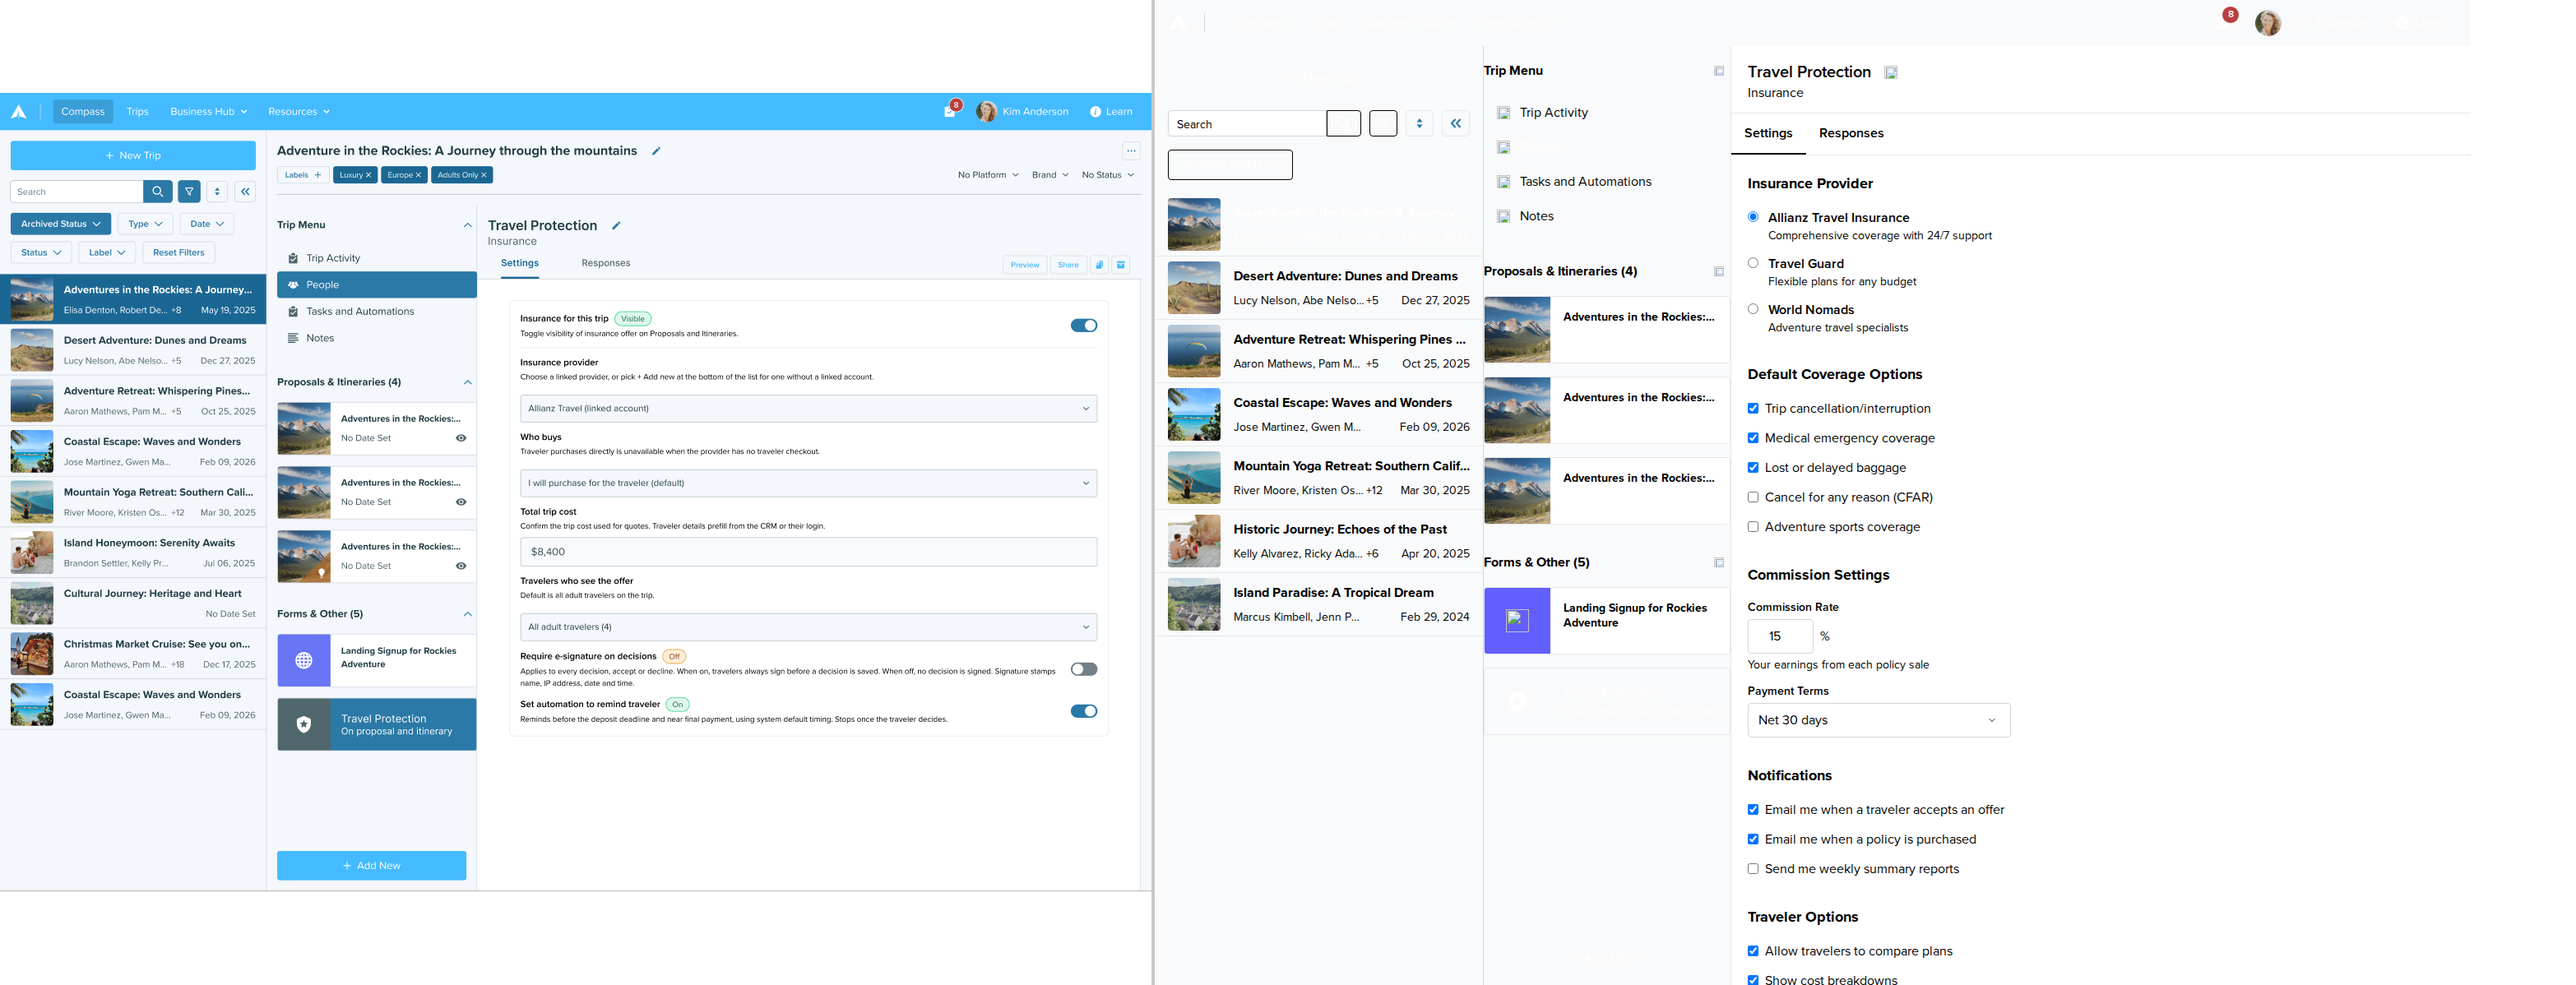
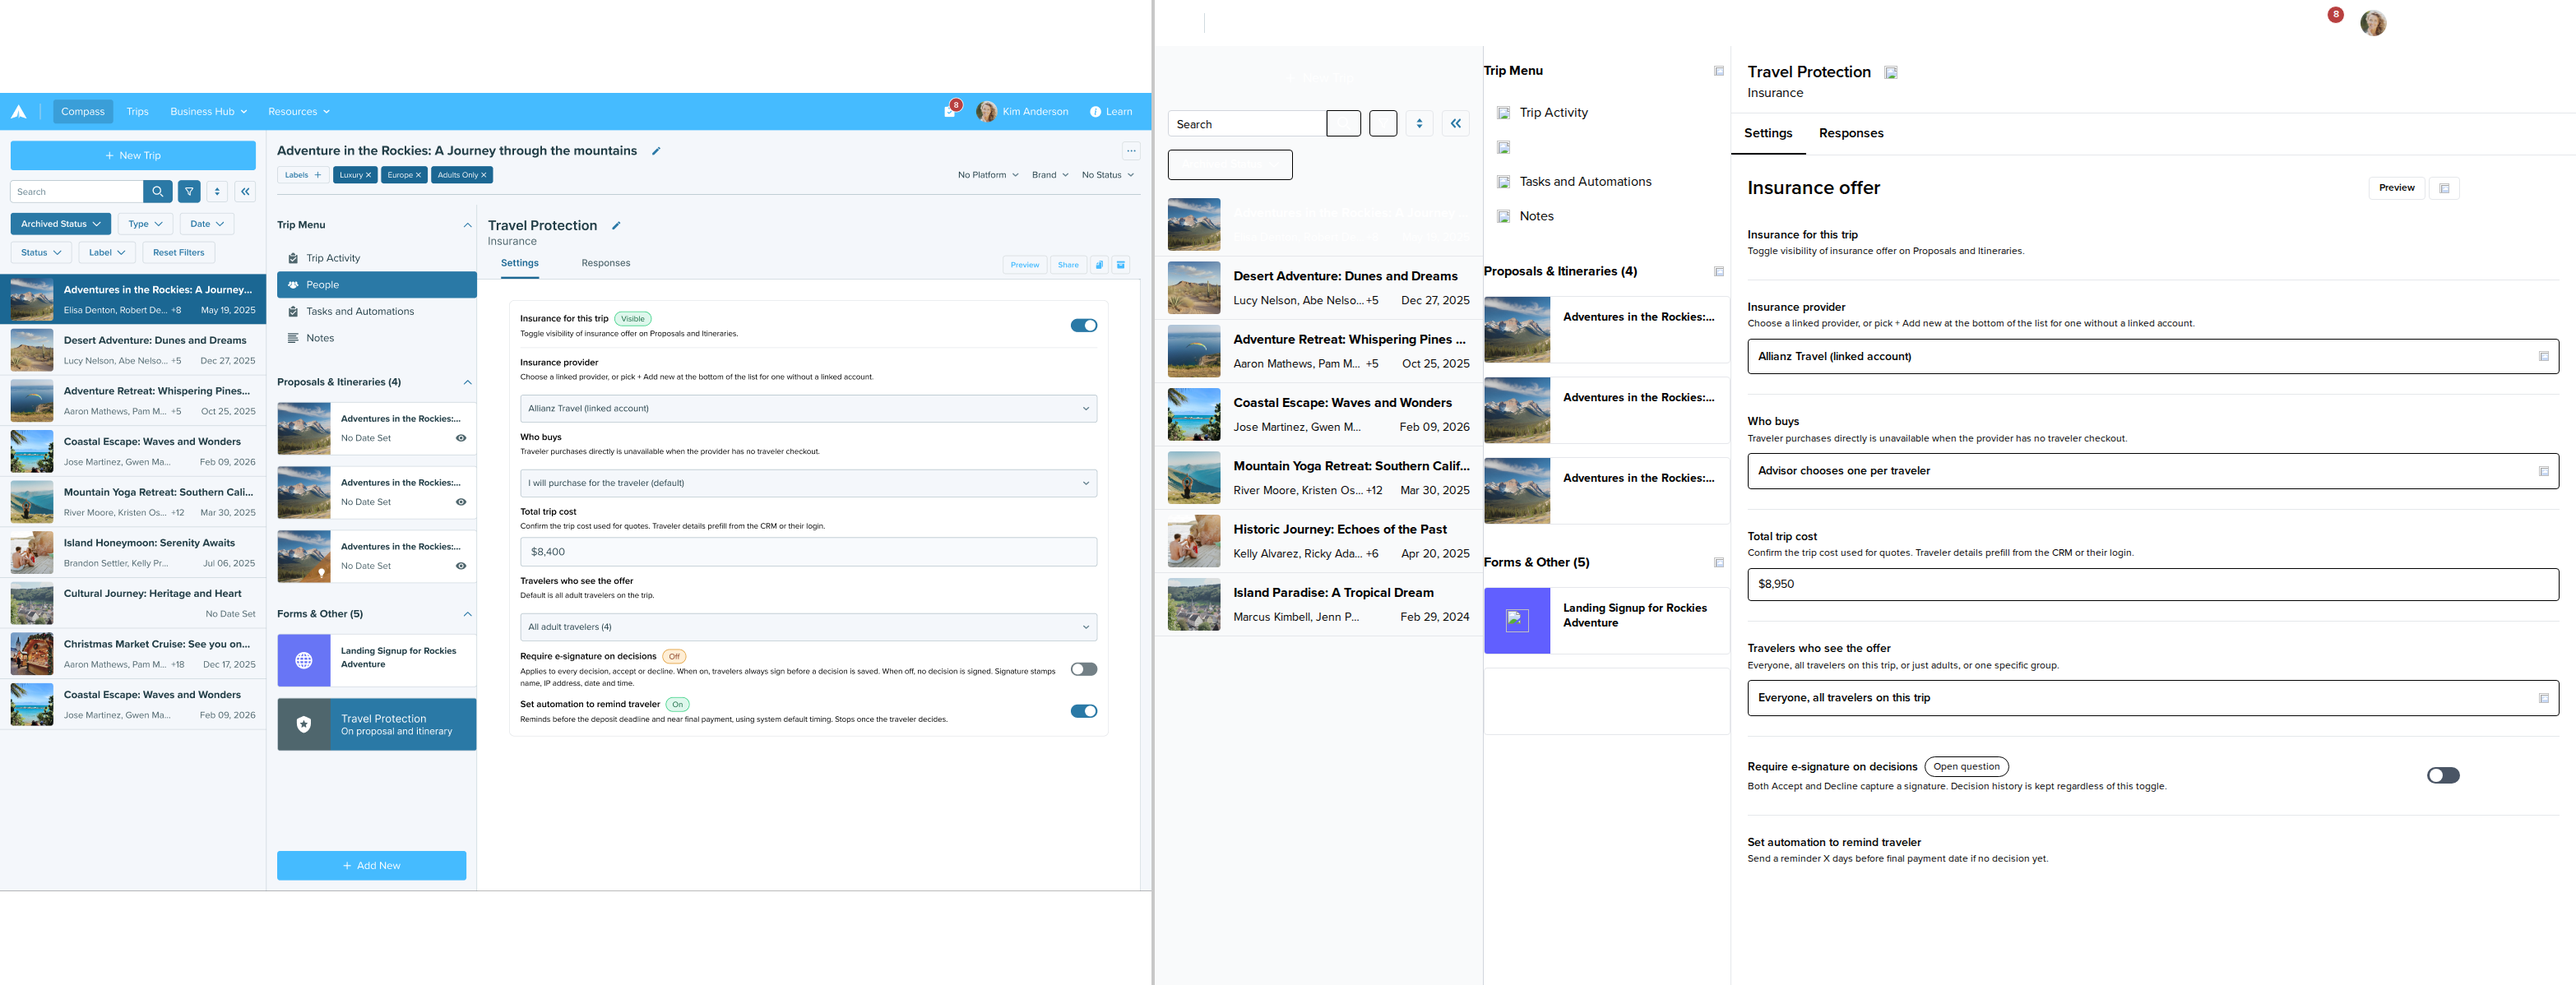
Fix node 34227-78641: rebuild Settings screen with correct structure
- Replace wrong sections with correct Figma layout
- Add Insurance for this trip toggle (ON)
- Add Insurance provider dropdown with Allianz Travel
- Add Who buys dropdown
- Add Total trip cost field ($8,950)
- Add Travelers who see offer dropdown
- Add E-signature toggle with Open question badge (OFF)
- Add Set automation toggle (ON)
- Add Preview button
- Fix all helper text and labels from Figma

diff --git a/src/prototypes/link-insurance/screens/Node34227_78641.tsx b/src/prototypes/link-insurance/screens/Node34227_78641.tsx
@@ -1,4 +1,4 @@
-// Node 34227:78641 - Advisor: Settings - 1600x1204px
+// Node 34227:78641 - Advisor: Settings - 1728x1198px
 // Full Travefy app chrome with settings panel
 
 import { NavbarApplication } from '../chrome/NavbarApplication'
@@ -9,7 +9,7 @@ const ASSETS = '/figma-assets/34227-78641'
 
 export function Node34227_78641() {
   return (
-    <div className="bg-gray-50 flex flex-col w-[1600px] h-[1204px]">
+    <div className="bg-blue-gray-50 flex flex-col w-[1728px] h-[1198px]">
       <NavbarApplication />
 
       {/* Main content with sidebars and settings panel */}
@@ -41,149 +41,177 @@ export function Node34227_78641() {
           </div>
 
           {/* Settings content - scrollable */}
-          <div className="flex-1 overflow-auto p-5">
-            <div className="max-w-4xl mx-auto space-y-8">
-              {/* Provider section */}
-              <div className="space-y-4">
-                <h2 className="text-lg font-bold text-blue-gray-900">Insurance Provider</h2>
-                
-                <div className="space-y-3">
-                  <label className="flex items-start gap-3">
-                    <input type="radio" name="provider" className="mt-1" checked readOnly />
-                    <div>
-                      <div className="font-semibold text-blue-gray-900">Allianz Travel Insurance</div>
-                      <div className="text-sm text-blue-gray-600">Comprehensive coverage with 24/7 support</div>
+          <div className="flex-1 overflow-auto">
+            <div className="flex flex-col px-5 py-6">
+              {/* Content header with Send buttons */}
+              <div className="flex items-center justify-between mb-8 w-[866px]">
+                <h2 className="text-2xl font-semibold text-blue-gray-900">Insurance offer</h2>
+                <div className="flex gap-1">
+                  <button className="border border-gray-200 flex gap-2 h-7 items-center justify-center px-3 py-2 rounded">
+                    <p className="text-xs font-semibold text-primary-400 leading-[12px]">Preview</p>
+                  </button>
+                  <button className="border border-gray-200 flex gap-2 h-7 items-center justify-center px-3 py-2 rounded">
+                    <div className="relative shrink-0 size-3">
+                      <img alt="" className="absolute block inset-0 max-w-none size-full" src={`${ASSETS}/685ab037-0fa9-4a0d-ba65-74b023b85bc9.svg`} />
                     </div>
-                  </label>
-                  
-                  <label className="flex items-start gap-3">
-                    <input type="radio" name="provider" className="mt-1" />
-                    <div>
-                      <div className="font-semibold text-blue-gray-900">Travel Guard</div>
-                      <div className="text-sm text-blue-gray-600">Flexible plans for any budget</div>
-                    </div>
-                  </label>
-                  
-                  <label className="flex items-start gap-3">
-                    <input type="radio" name="provider" className="mt-1" />
-                    <div>
-                      <div className="font-semibold text-blue-gray-900">World Nomads</div>
-                      <div className="text-sm text-blue-gray-600">Adventure travel specialists</div>
-                    </div>
-                  </label>
+                  </button>
                 </div>
               </div>
 
-              {/* Default coverage section */}
-              <div className="space-y-4">
-                <h2 className="text-lg font-bold text-blue-gray-900">Default Coverage Options</h2>
-                
-                <div className="space-y-3">
-                  <label className="flex items-center gap-2">
-                    <input type="checkbox" checked readOnly />
-                    <span className="text-blue-gray-900">Trip cancellation/interruption</span>
-                  </label>
-                  
-                  <label className="flex items-center gap-2">
-                    <input type="checkbox" checked readOnly />
-                    <span className="text-blue-gray-900">Medical emergency coverage</span>
-                  </label>
-                  
-                  <label className="flex items-center gap-2">
-                    <input type="checkbox" checked readOnly />
-                    <span className="text-blue-gray-900">Lost or delayed baggage</span>
-                  </label>
-                  
-                  <label className="flex items-center gap-2">
-                    <input type="checkbox" />
-                    <span className="text-blue-gray-900">Cancel for any reason (CFAR)</span>
-                  </label>
-                  
-                  <label className="flex items-center gap-2">
-                    <input type="checkbox" />
-                    <span className="text-blue-gray-900">Adventure sports coverage</span>
-                  </label>
-                </div>
-              </div>
-
-              {/* Commission settings */}
-              <div className="space-y-4">
-                <h2 className="text-lg font-bold text-blue-gray-900">Commission Settings</h2>
-                
-                <div className="space-y-3">
-                  <div>
-                    <label className="block text-sm font-semibold text-blue-gray-900 mb-1">Commission Rate</label>
-                    <div className="flex items-center gap-2">
-                      <input type="number" value="15" className="border border-gray-300 rounded px-3 py-2 w-20 text-center" />
-                      <span className="text-blue-gray-900">%</span>
-                    </div>
-                    <p className="text-sm text-blue-gray-600 mt-1">Your earnings from each policy sale</p>
+              {/* Insurance for this trip toggle */}
+              <div className="flex gap-4 items-center mb-6 w-[866px]">
+                <div className="flex-1 flex flex-col gap-0.5">
+                  <div className="flex gap-2 items-center">
+                    <p className="text-sm font-semibold text-black leading-tight">Insurance for this trip</p>
                   </div>
-                  
-                  <div>
-                    <label className="block text-sm font-semibold text-blue-gray-900 mb-1">Payment Terms</label>
-                    <select className="border border-gray-300 rounded px-3 py-2 w-full max-w-xs">
-                      <option>Net 30 days</option>
-                      <option>Net 60 days</option>
-                      <option>Net 90 days</option>
-                    </select>
+                  <p className="text-xs font-normal text-black leading-relaxed">
+                    Toggle visibility of insurance offer on Proposals and Itineraries.
+                  </p>
+                </div>
+                <button className="flex gap-2 items-start shrink-0">
+                  <div className="h-5 relative shrink-0 w-10">
+                    <div className="absolute inset-0 rounded-[40px] bg-primary-600" />
+                    <div className="absolute bg-white rounded-[40px] size-4 top-0.5 right-[2.83px]" />
+                  </div>
+                </button>
+              </div>
+
+              <div className="bg-[#e5e8eb] h-px mb-6 w-full" />
+
+              {/* Insurance provider */}
+              <div className="flex flex-col gap-2 mb-6 w-full">
+                <div className="flex-1 flex flex-col gap-0.5">
+                  <div className="flex gap-2 items-center">
+                    <p className="text-sm font-semibold text-black leading-tight">Insurance provider</p>
+                  </div>
+                  <p className="text-xs font-normal text-black leading-relaxed min-w-full w-min">
+                    Choose a linked provider, or pick + Add new at the bottom of the list for one without a linked account.
+                  </p>
+                </div>
+                <div className="bg-blue-gray-50 border border-blue-gray-300 flex flex-col items-start p-3 rounded w-full">
+                  <div className="flex items-center justify-between w-full">
+                    <div className="flex flex-col justify-center leading-[0]">
+                      <p className="font-semibold leading-tight text-sm text-black">Allianz Travel (linked account)</p>
+                    </div>
+                    <div className="relative shrink-0 size-3">
+                      <img alt="" className="absolute block inset-0 max-w-none size-full" src={`${ASSETS}/1b02e636-9211-490a-86c7-dff823279480.svg`} />
+                    </div>
                   </div>
                 </div>
               </div>
 
-              {/* Notification settings */}
-              <div className="space-y-4">
-                <h2 className="text-lg font-bold text-blue-gray-900">Notifications</h2>
-                
-                <div className="space-y-3">
-                  <label className="flex items-center gap-2">
-                    <input type="checkbox" checked readOnly />
-                    <span className="text-blue-gray-900">Email me when a traveler accepts an offer</span>
-                  </label>
-                  
-                  <label className="flex items-center gap-2">
-                    <input type="checkbox" checked readOnly />
-                    <span className="text-blue-gray-900">Email me when a policy is purchased</span>
-                  </label>
-                  
-                  <label className="flex items-center gap-2">
-                    <input type="checkbox" />
-                    <span className="text-blue-gray-900">Send me weekly summary reports</span>
-                  </label>
+              <div className="bg-[#e5e8eb] h-px mb-6 w-full" />
+
+              {/* Who buys */}
+              <div className="flex flex-col gap-2 mb-6 w-full">
+                <div className="flex-1 flex flex-col gap-0.5">
+                  <div className="flex gap-2 items-center">
+                    <p className="text-sm font-semibold text-black leading-tight">Who buys</p>
+                  </div>
+                  <p className="text-xs font-normal text-black leading-relaxed">
+                    Traveler purchases directly is unavailable when the provider has no traveler checkout.
+                  </p>
+                </div>
+                <div className="bg-blue-gray-50 border border-blue-gray-300 flex flex-col items-start p-3 rounded w-full">
+                  <div className="flex items-center justify-between w-full">
+                    <div className="flex flex-col justify-center leading-[0]">
+                      <p className="font-semibold leading-tight text-sm text-black">Advisor chooses one per traveler</p>
+                    </div>
+                    <div className="relative shrink-0 size-3">
+                      <img alt="" className="absolute block inset-0 max-w-none size-full" src={`${ASSETS}/1b02e636-9211-490a-86c7-dff823279480.svg`} />
+                    </div>
+                  </div>
                 </div>
               </div>
 
-              {/* Traveler options */}
-              <div className="space-y-4">
-                <h2 className="text-lg font-bold text-blue-gray-900">Traveler Options</h2>
-                
-                <div className="space-y-3">
-                  <label className="flex items-center gap-2">
-                    <input type="checkbox" checked readOnly />
-                    <span className="text-blue-gray-900">Allow travelers to compare plans</span>
-                  </label>
-                  
-                  <label className="flex items-center gap-2">
-                    <input type="checkbox" checked readOnly />
-                    <span className="text-blue-gray-900">Show cost breakdowns</span>
-                  </label>
-                  
-                  <label className="flex items-center gap-2">
-                    <input type="checkbox" />
-                    <span className="text-blue-gray-900">Require travelers to provide declination reason</span>
-                  </label>
+              <div className="bg-[#e5e8eb] h-px mb-6 w-full" />
+
+              {/* Total trip cost */}
+              <div className="flex flex-col gap-2 mb-6 w-full">
+                <div className="flex flex-col gap-0.5">
+                  <div className="flex gap-2 items-center">
+                    <p className="text-sm font-semibold text-black leading-tight">Total trip cost</p>
+                  </div>
+                  <p className="text-xs font-normal text-black leading-relaxed min-w-full w-min">
+                    Confirm the trip cost used for quotes. Traveler details prefill from the CRM or their login.
+                  </p>
+                </div>
+                <div className="flex flex-col gap-0.5 w-full">
+                  <div className="bg-blue-gray-50 border border-blue-gray-300 flex items-center px-3 py-2 rounded w-full">
+                    <p className="flex-1 font-normal leading-relaxed text-sm text-black">$8,950</p>
+                  </div>
                 </div>
               </div>
 
-              {/* Action buttons */}
-              <div className="flex gap-3 pt-4">
-                <button className="bg-primary-600 hover:bg-primary-700 text-white px-6 py-2.5 rounded font-semibold">
-                  Save Changes
-                </button>
-                <button className="border border-gray-300 hover:bg-gray-50 text-blue-gray-900 px-6 py-2.5 rounded font-semibold">
-                  Cancel
+              <div className="bg-[#e5e8eb] h-px mb-6 w-full" />
+
+              {/* Travelers who see the offer */}
+              <div className="flex flex-col gap-2 mb-6 w-full">
+                <div className="flex-1 flex flex-col gap-0.5">
+                  <div className="flex gap-2 items-center">
+                    <p className="text-sm font-semibold text-black leading-tight">Travelers who see the offer</p>
+                  </div>
+                  <p className="text-xs font-normal text-black leading-relaxed">
+                    Everyone, all travelers on this trip, or just adults, or one specific group.
+                  </p>
+                </div>
+                <div className="bg-blue-gray-50 border border-blue-gray-300 flex flex-col items-start p-3 rounded w-full">
+                  <div className="flex items-center justify-between w-full">
+                    <div className="flex flex-col justify-center leading-[0]">
+                      <p className="font-semibold leading-tight text-sm text-black">Everyone, all travelers on this trip</p>
+                    </div>
+                    <div className="relative shrink-0 size-3">
+                      <img alt="" className="absolute block inset-0 max-w-none size-full" src={`${ASSETS}/1b02e636-9211-490a-86c7-dff823279480.svg`} />
+                    </div>
+                  </div>
+                </div>
+              </div>
+
+              <div className="bg-[#e5e8eb] h-px mb-6 w-full" />
+
+              {/* Require e-signature toggle */}
+              <div className="flex gap-4 items-center mb-6 w-[866px]">
+                <div className="flex-1 flex flex-col gap-0.5">
+                  <div className="flex gap-2 items-center">
+                    <p className="text-sm font-semibold text-black leading-tight">Require e-signature on decisions</p>
+                    <div className="bg-grandis-100 border border-grandis-400 flex gap-1 items-center px-2.5 py-0.5 rounded-3xl">
+                      <p className="text-xs font-normal text-grandis-800 leading-relaxed">Open question</p>
+                    </div>
+                  </div>
+                  <p className="text-xs font-normal text-black leading-relaxed">
+                    Both Accept and Decline capture a signature. Decision history is kept regardless of this toggle.
+                  </p>
+                </div>
+                <button className="flex gap-2 items-start shrink-0">
+                  <div className="h-5 relative shrink-0 w-10">
+                    <div className="absolute inset-0 rounded-[40px] bg-gray-600" />
+                    <div className="absolute bg-white rounded-[40px] size-4 top-0.5 left-[2.5px]" />
+                  </div>
                 </button>
               </div>
+
+              <div className="bg-[#e5e8eb] h-px mb-6 w-full" />
+
+              {/* Set automation toggle */}
+              <div className="flex gap-4 items-center mb-6 w-[866px]">
+                <div className="flex-1 flex flex-col gap-0.5">
+                  <div className="flex gap-2 items-center">
+                    <p className="text-sm font-semibold text-black leading-tight">Set automation to remind traveler</p>
+                  </div>
+                  <p className="text-xs font-normal text-black leading-relaxed">
+                    Send a reminder X days before final payment date if no decision yet.
+                  </p>
+                </div>
+                <button className="flex gap-2 items-start shrink-0">
+                  <div className="h-5 relative shrink-0 w-10">
+                    <div className="absolute inset-0 rounded-[40px] bg-primary-600" />
+                    <div className="absolute bg-white rounded-[40px] size-4 top-0.5 right-[2.83px]" />
+                  </div>
+                </button>
+              </div>
+
+              {/* Sticky footer placeholder */}
+              <div className="flex h-[60px] items-center justify-end py-2 w-full" />
             </div>
           </div>
         </div>
